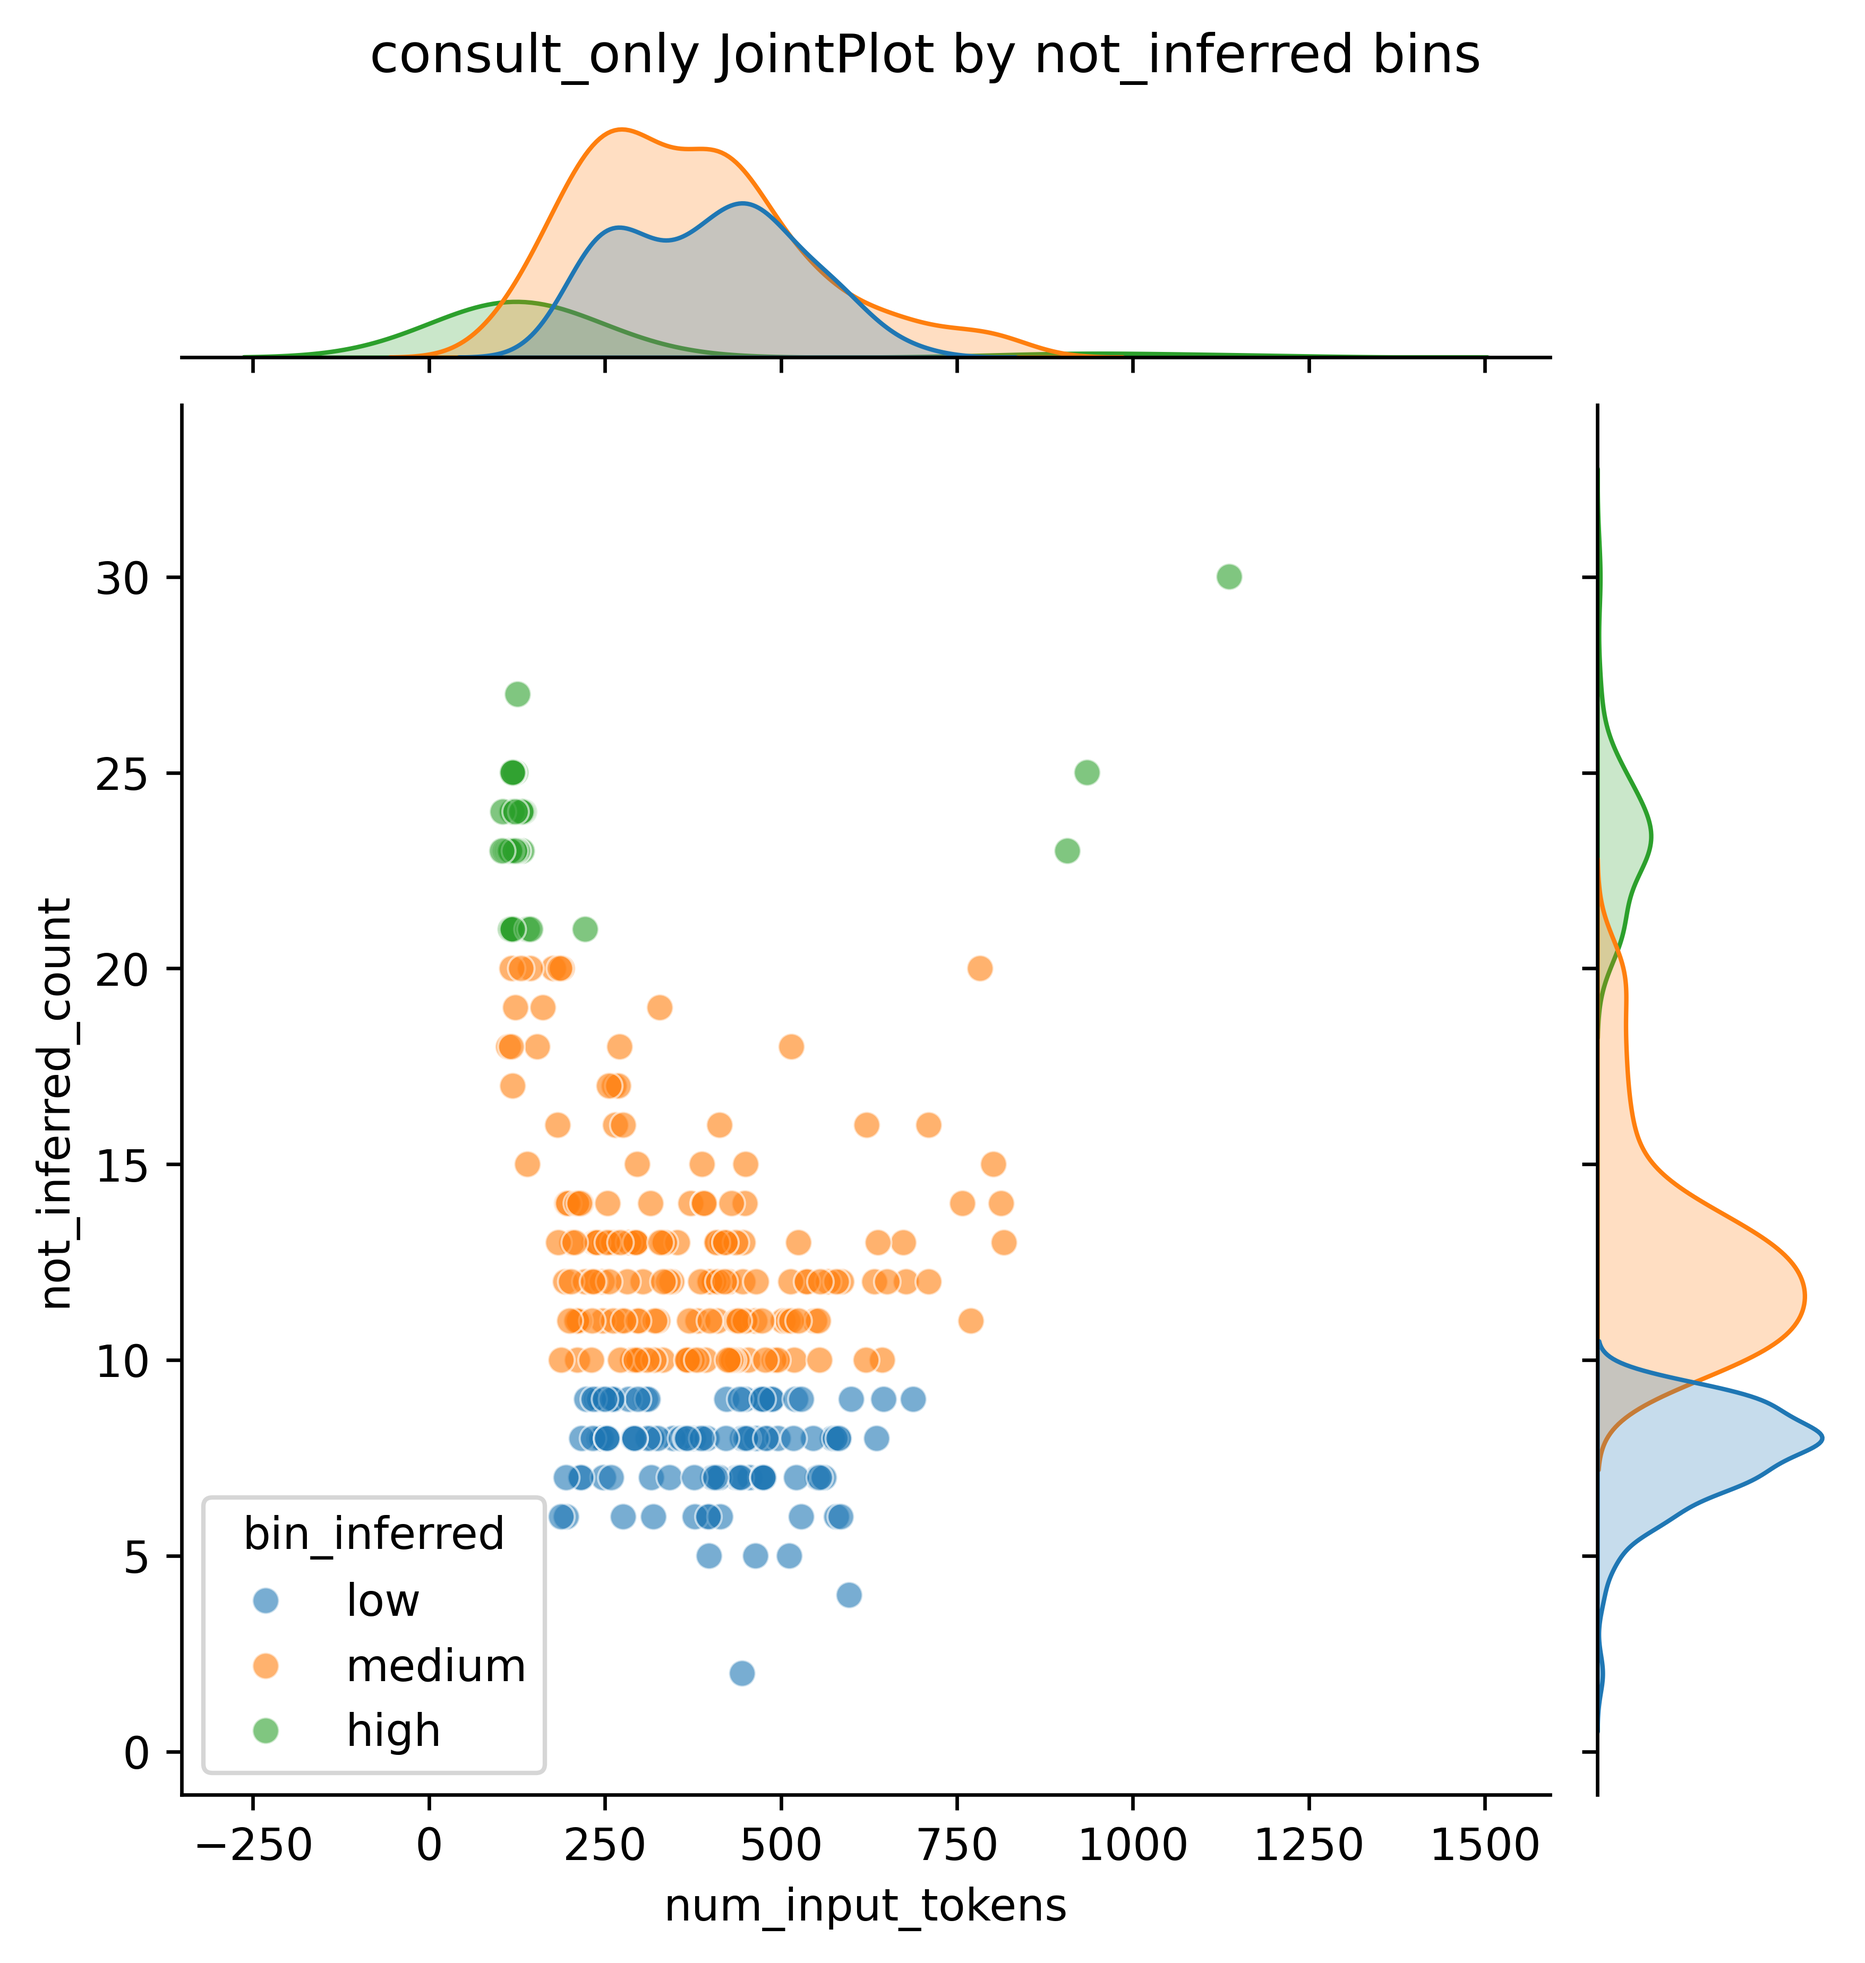
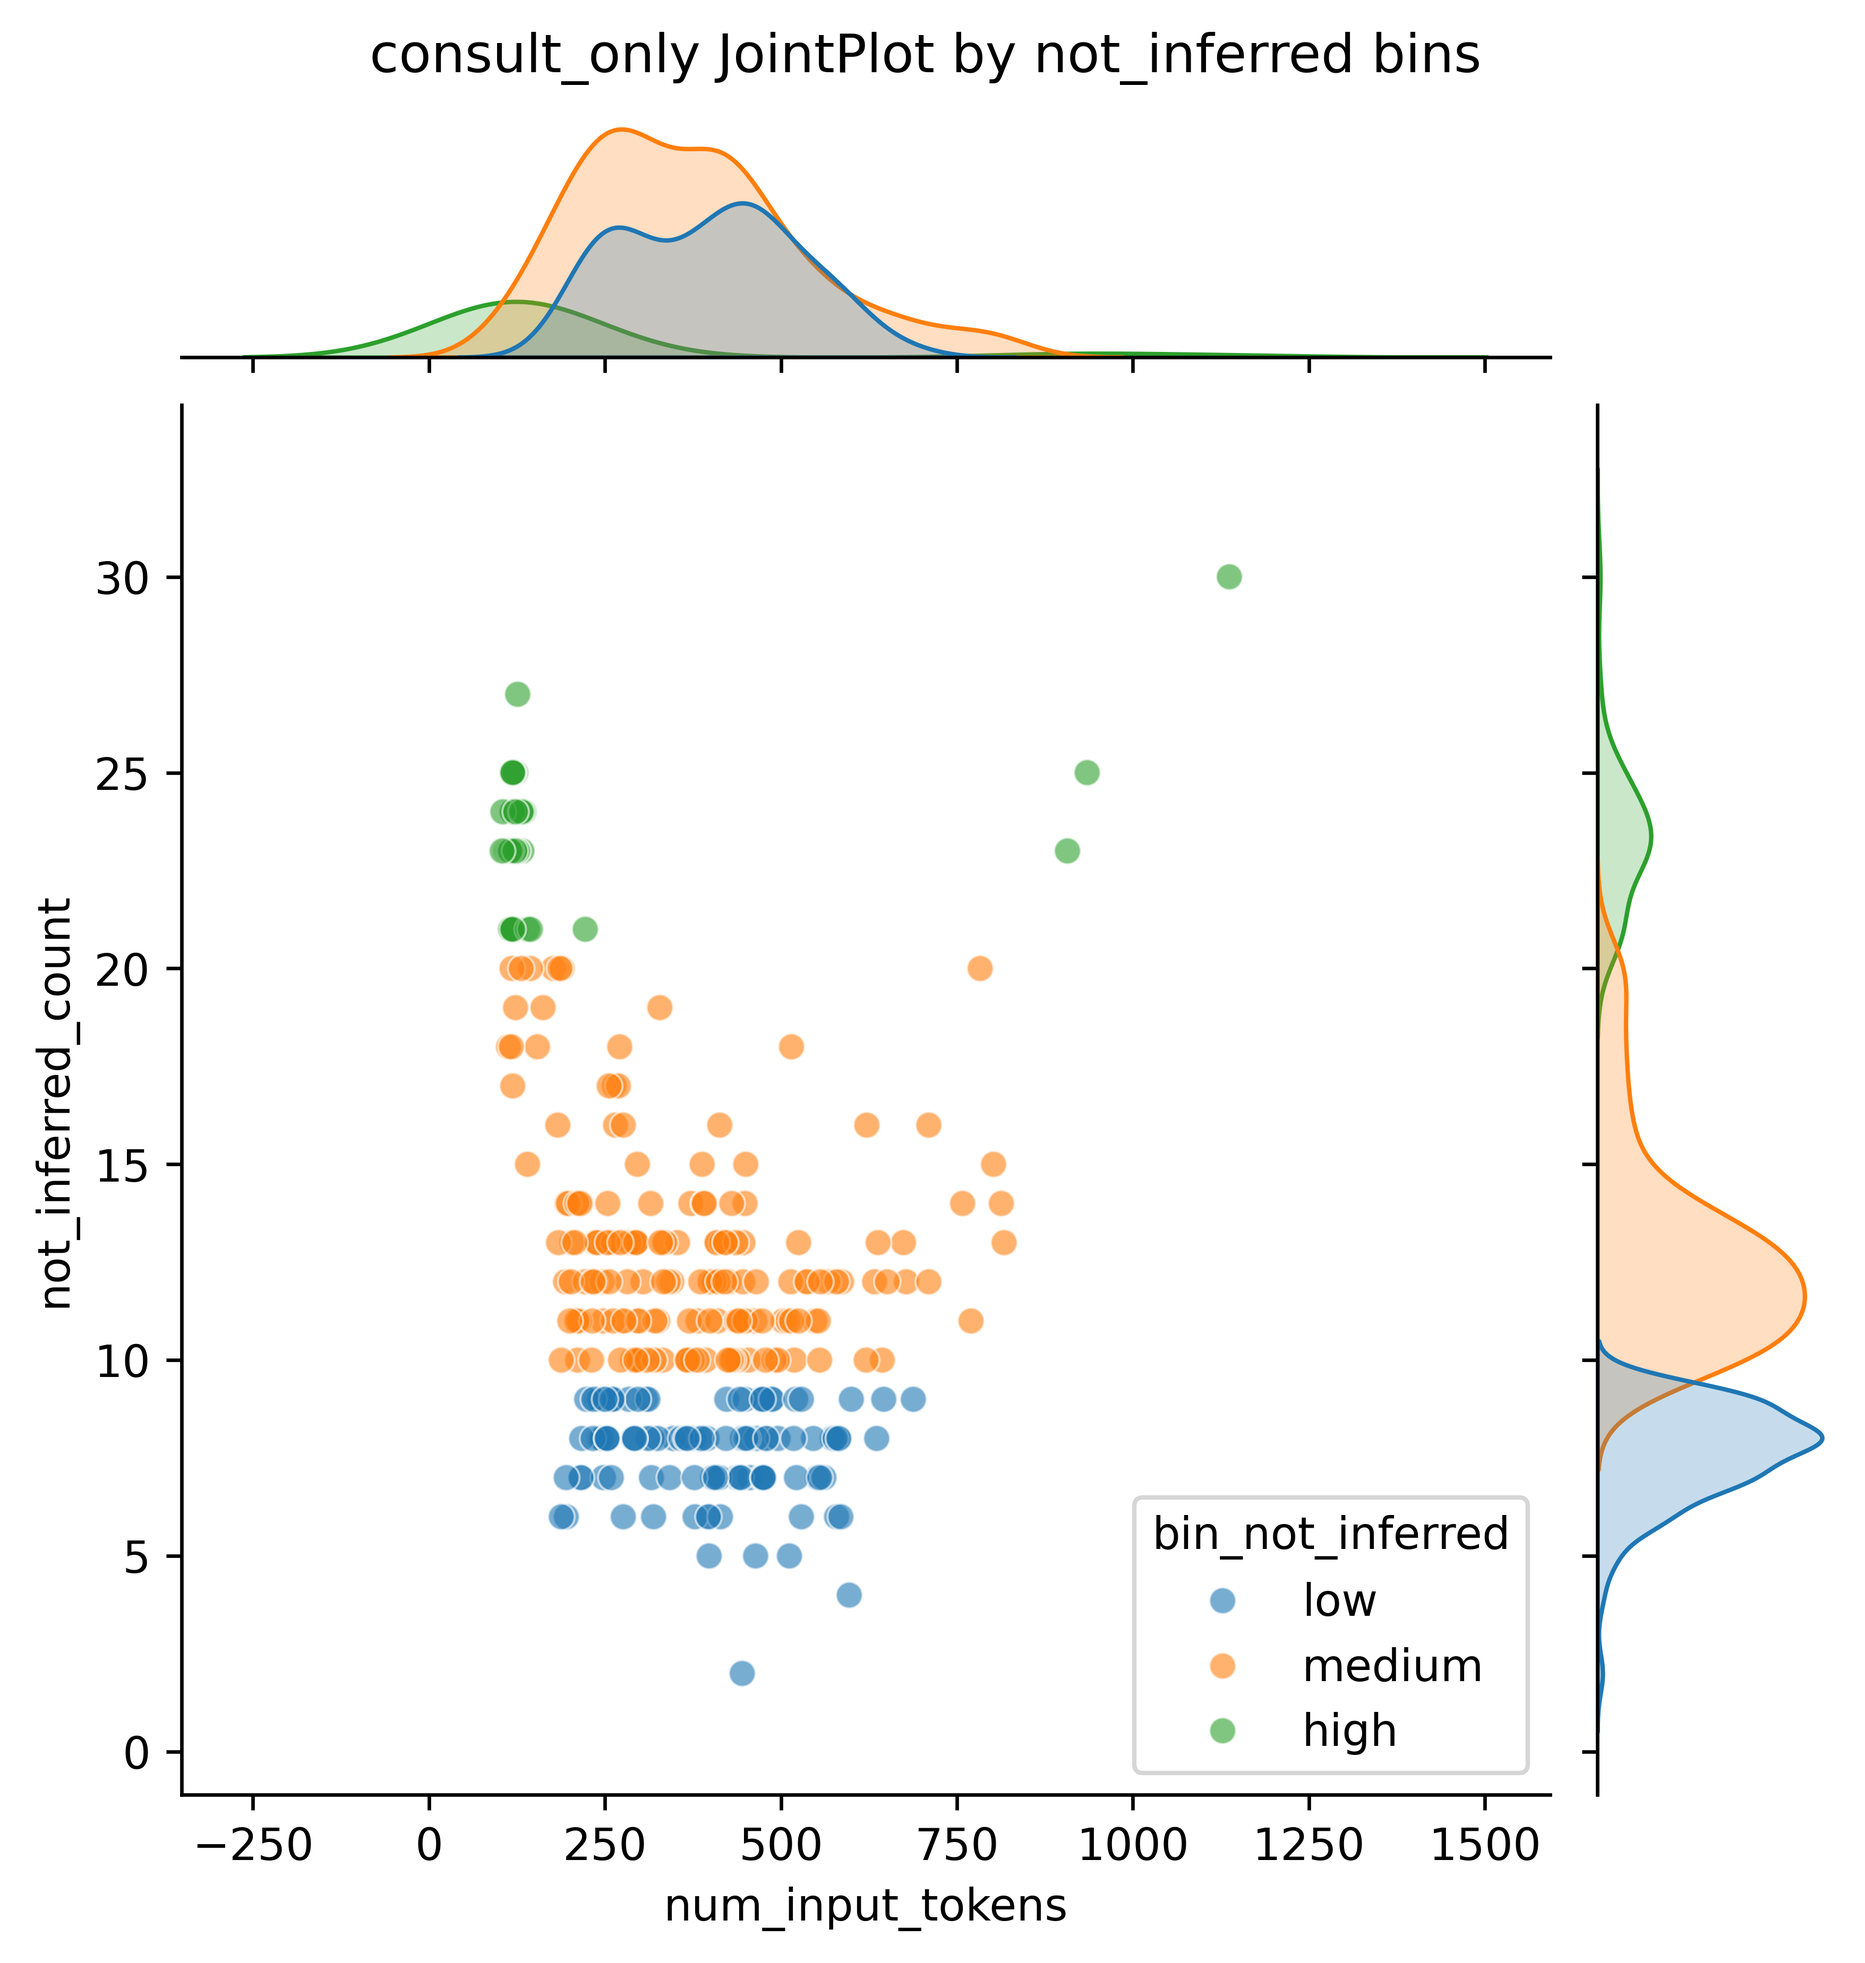
cutoff cases selected

diff --git a/utils/sample_selection.py b/utils/sample_selection.py
@@ -90,13 +90,13 @@ def create_jointplot(df, category_name, output_dir):
         else:
             return "high"
 
-    df2["bin_inferred"] = df2["not_inferred_count"].apply(categorize_not_inferred)
+    df2["bin_not_inferred"] = df2["not_inferred_count"].apply(categorize_not_inferred)
 
     g = sns.jointplot(
         data=df2,
         x="num_input_tokens",
         y="not_inferred_count",
-        hue="bin_inferred",
+        hue="bin_not_inferred",
         alpha=0.6
     )
     g.fig.suptitle(f"{category_name} JointPlot by not_inferred bins", y=1.02)
